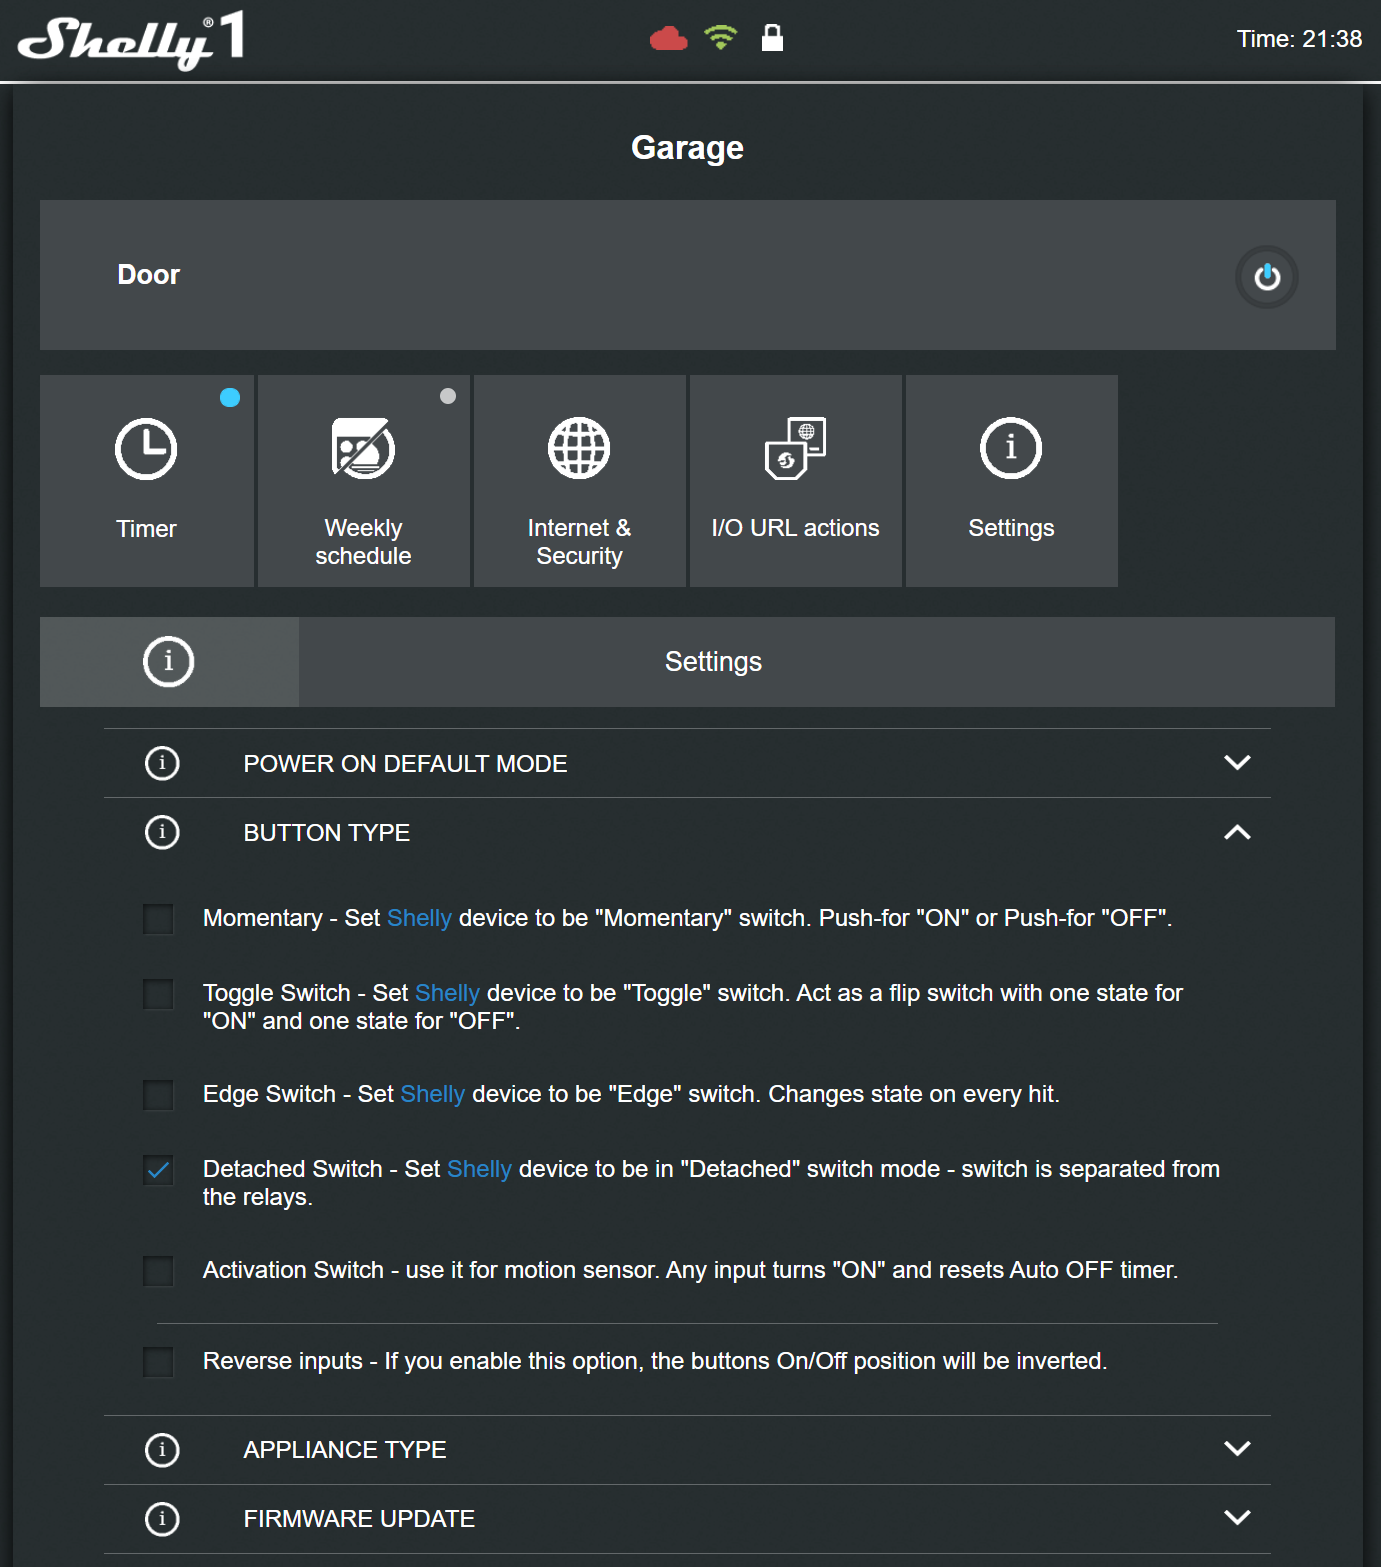
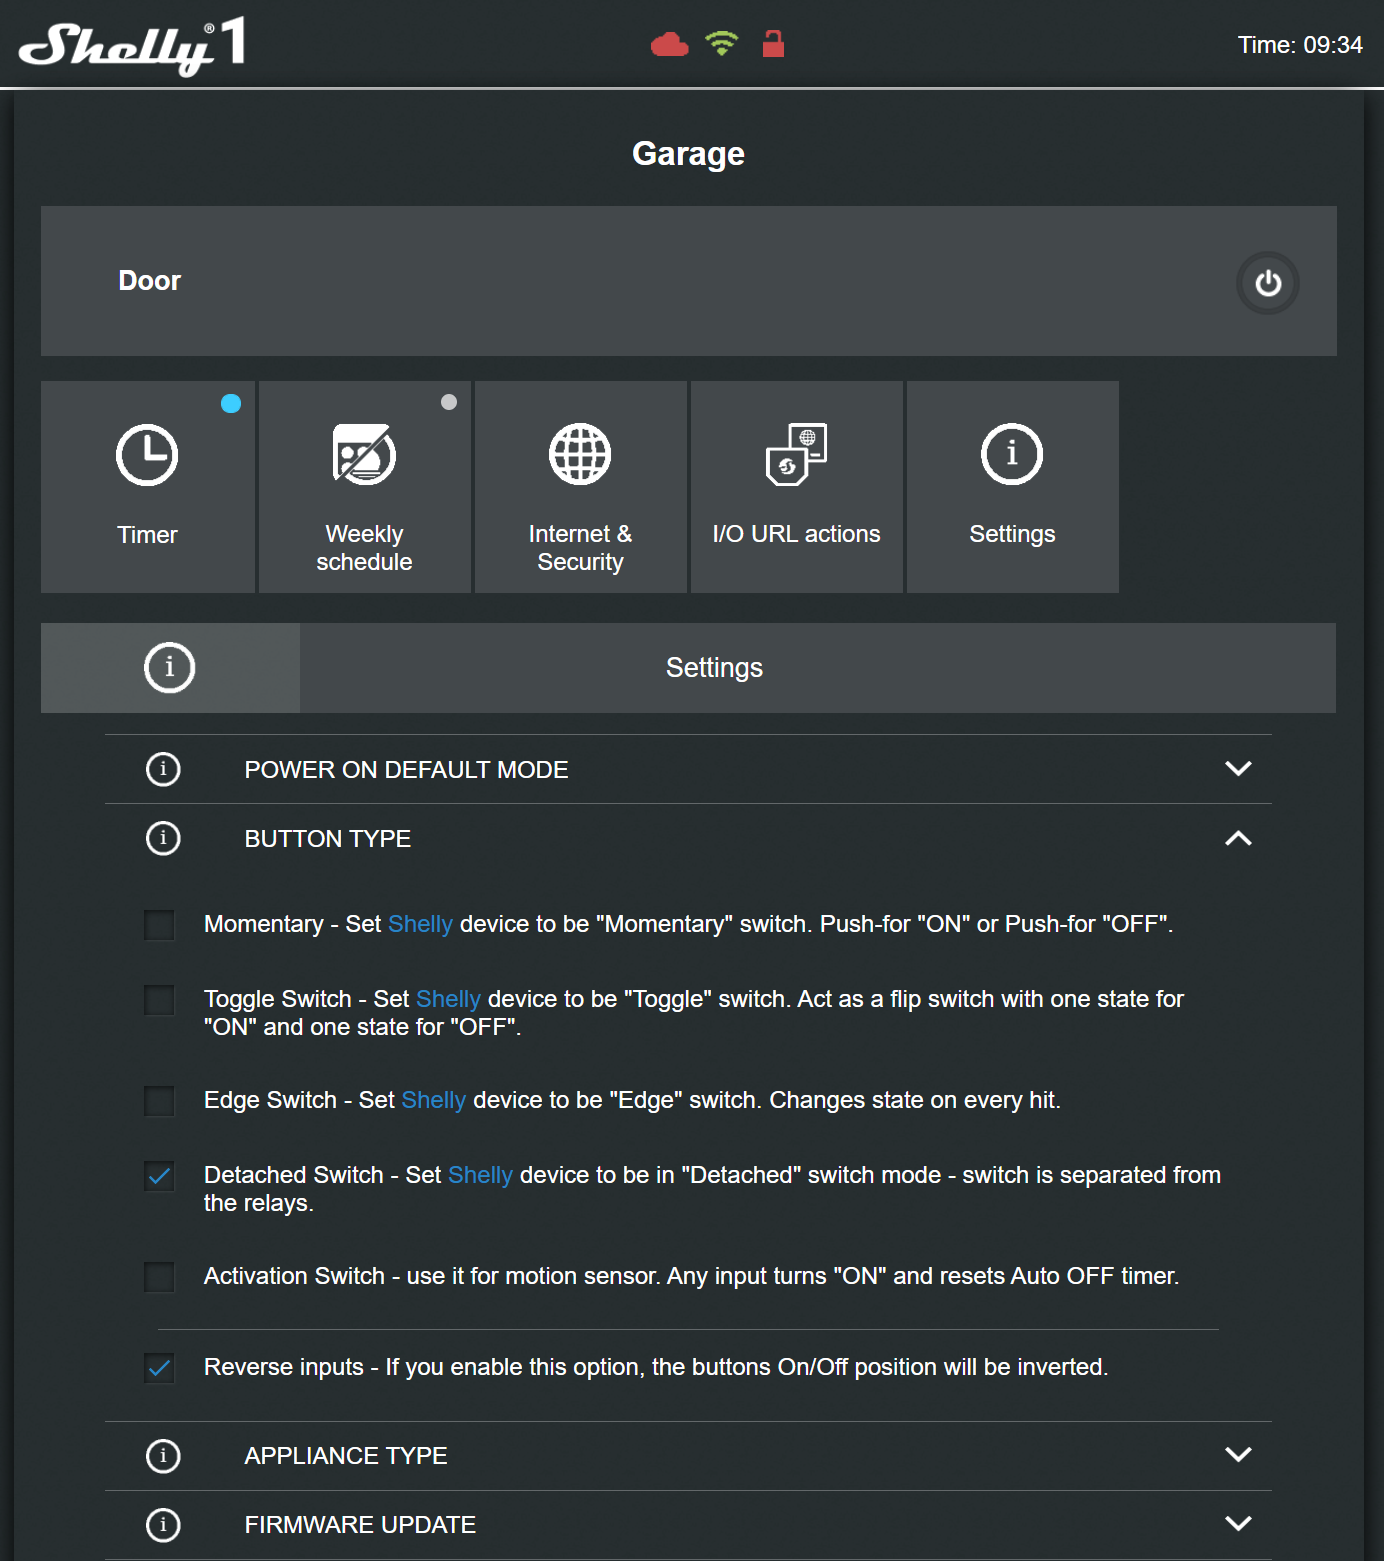
updated readme

diff --git a/garage_door_opener/readme.md b/garage_door_opener/readme.md
@@ -17,7 +17,7 @@
 
 - Allterco Shelly Switch
 - 12V Power Adapter
-- Normally Open (NO) Reed Switch
+- Reed Switch (either NO or NC, see Shelly switch configuration below)
 - Solid 2-Conductor Bell Wire
 
 ### Installation Instructions
@@ -38,7 +38,10 @@ However I reversed the Reed switch logic and location so that when the magnet co
 
 #### Shelly Website:
 
-1.  Set the Shelly button type to "detached" so that the internal relay and the external Reed switch will have independent states:
+1.  Set the Shelly button type to "detached" so that the internal relay and the external Reed switch will have independent states.<br><br>
+    Important:
+    - if you are using a NC (Normally Closed) Reed switch, select the "Reverse input" checkbox
+    - if you are using a NO (Normally Open) Reed switch, leave the "Reverse input" checkbox unselected
 
     <img src="https://github.com/mircolino/shelly/raw/main/garage_door_opener/images/02_detached.png" width="40%" height="40%">
 
